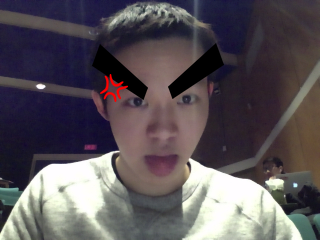
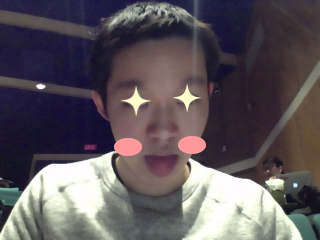
add happiness

diff --git a/python/graphic.py b/python/graphic.py
@@ -195,8 +195,48 @@ def drawDisgust(image_array):
 def drawFear(image_array):
 	return image_array
 
-def drawHappiness(image_array):
-	return image_array
+def drawHappiness(background, star1, rose, faceInfo, outfile):
+	bg_w, bg_h = background.size
+
+	st1orig_w, st1orig_h = star1.size
+	rightOuter = int(faceInfo.eye_info['eyeRightOuter']['x'])
+	rightInner = int(faceInfo.eye_info['eyeRightInner']['x'])
+	righty = int(faceInfo.eye_info['pupilRight']['y'])
+	rightRatio = st1orig_w / (rightOuter - rightInner)
+	star1 = star1.resize(((rightOuter - rightInner) * 2, (st1orig_h / rightRatio * 2)), Image.ANTIALIAS)
+	st1_w, st1_h = star1.size
+	averageRight = (rightOuter + rightInner) / 2
+	st1_offset = (averageRight - st1_w / 2, righty - st1_h / 2, averageRight + st1_w - st1_w / 2, righty + st1_h - st1_h/2)
+	background.paste(star1, st1_offset, mask = star1)
+
+	leftOuter = int(faceInfo.eye_info['eyeLeftOuter']['x'])
+	leftInner = int(faceInfo.eye_info['eyeLeftInner']['x'])
+	lefty = int(faceInfo.eye_info['pupilLeft']['y'])
+	leftRatio = st1orig_w / (leftInner - leftOuter)
+	star1 = star1.resize(((leftInner - leftOuter) * 2, (st1orig_h / leftRatio * 2)), Image.ANTIALIAS)
+	st1_w, st1_h = star1.size
+	averageLeft = (leftOuter + leftInner) / 2
+	st1_offset = (averageLeft - st1_w / 2, lefty - st1_h / 2, averageLeft + st1_w - st1_w / 2, lefty + st1_h - st1_h/2)
+	background.paste(star1, st1_offset, mask = star1)
+
+	rectangleX = int(faceInfo.box_info['width'])
+	rectangleY = int(faceInfo.box_info['height'])
+	rose_w, rose_h = rose.size
+	averageRectLen = (rectangleX + rectangleY) / 4
+	rectRatio = rose_w / (averageRectLen / 2)
+	rose = rose.resize((averageRectLen / 2, rose_h / rectRatio), Image.ANTIALIAS)
+	rose_w, rose_h = rose.size
+	mouthLeftX = int(faceInfo.mouth_info['mouthLeft']['x'])
+	mouthLeftY = int(faceInfo.mouth_info['mouthLeft']['y'])
+	mouthRightX = int(faceInfo.mouth_info['mouthRight']['x'])
+	mouthRightY = int(faceInfo.mouth_info['mouthRight']['y'])
+	rose_offset = (mouthLeftX - rose_w, mouthLeftY - rose_h)
+	rose_offset2 = (mouthRightX, mouthRightY - rose_h)
+	background.paste(rose, rose_offset, mask = rose)
+	background.paste(rose, rose_offset2, mask = rose)
+
+
+	background.save(outfile)
 
 def drawNeutral(image_array):
 	return image_array
@@ -246,9 +286,12 @@ if __name__ == '__main__':
 	angerSymbol = build_image('python/things/anger-symbol.png')
 	leftEyebrow = build_image('python/things/left-eye-brow.png')
 	rightEyebrow = build_image('python/things/right-eye-brow.png')
+	star1 = build_image('python/things/star-1.png')
+	rose = build_image('python/things/rose.png')
 
 	# data = get_json_data('sample.json')
 	getEmotion(data)
 	faceInfo = getFaceInfo(data)
 	# drawSadness(image, leftWater, rightWater, faceInfo)
-	drawAnger(image, angerSymbol, leftEyebrow, rightEyebrow, faceInfo, outputImagePath)
+	# drawAnger(image, angerSymbol, leftEyebrow, rightEyebrow, faceInfo, outputImagePath)
+	drawHappiness(image, star1, rose, faceInfo, outputImagePath)
